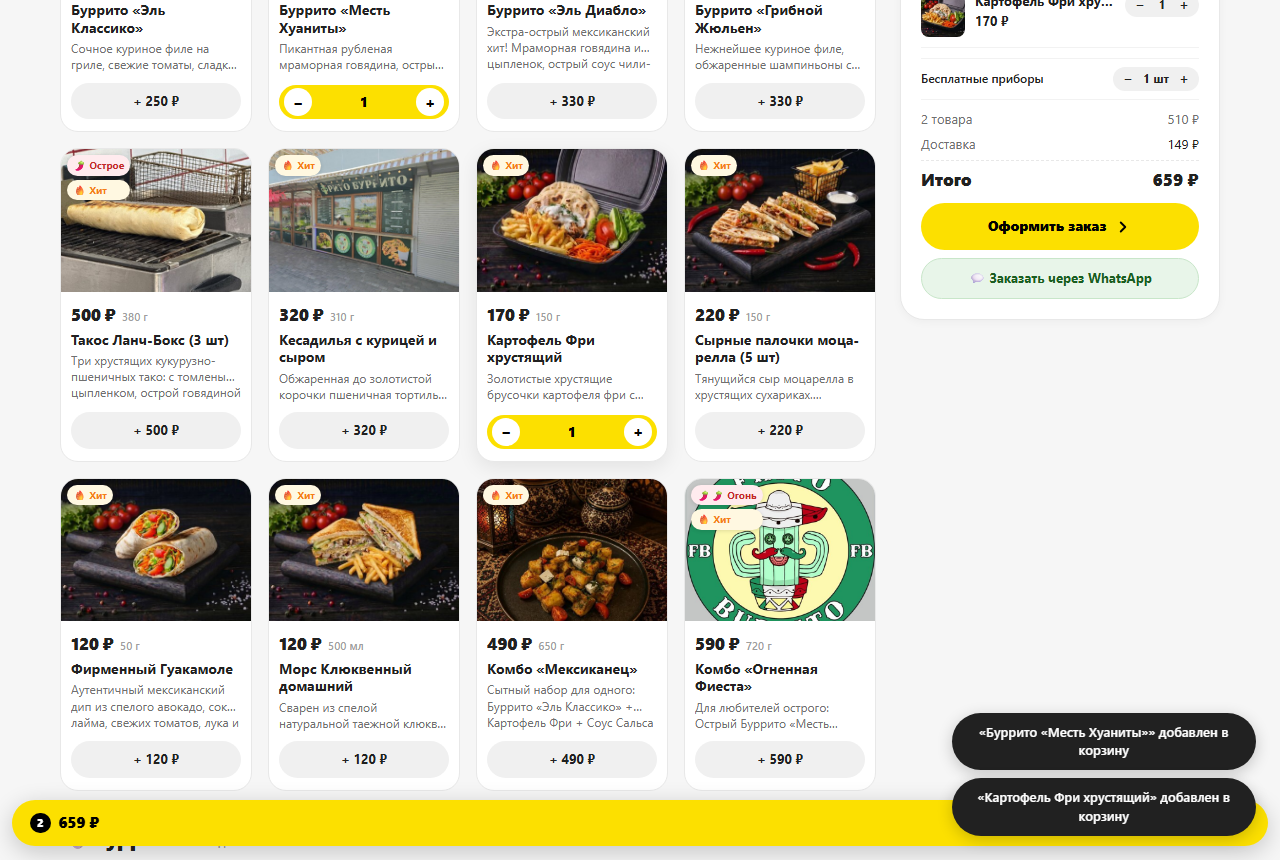
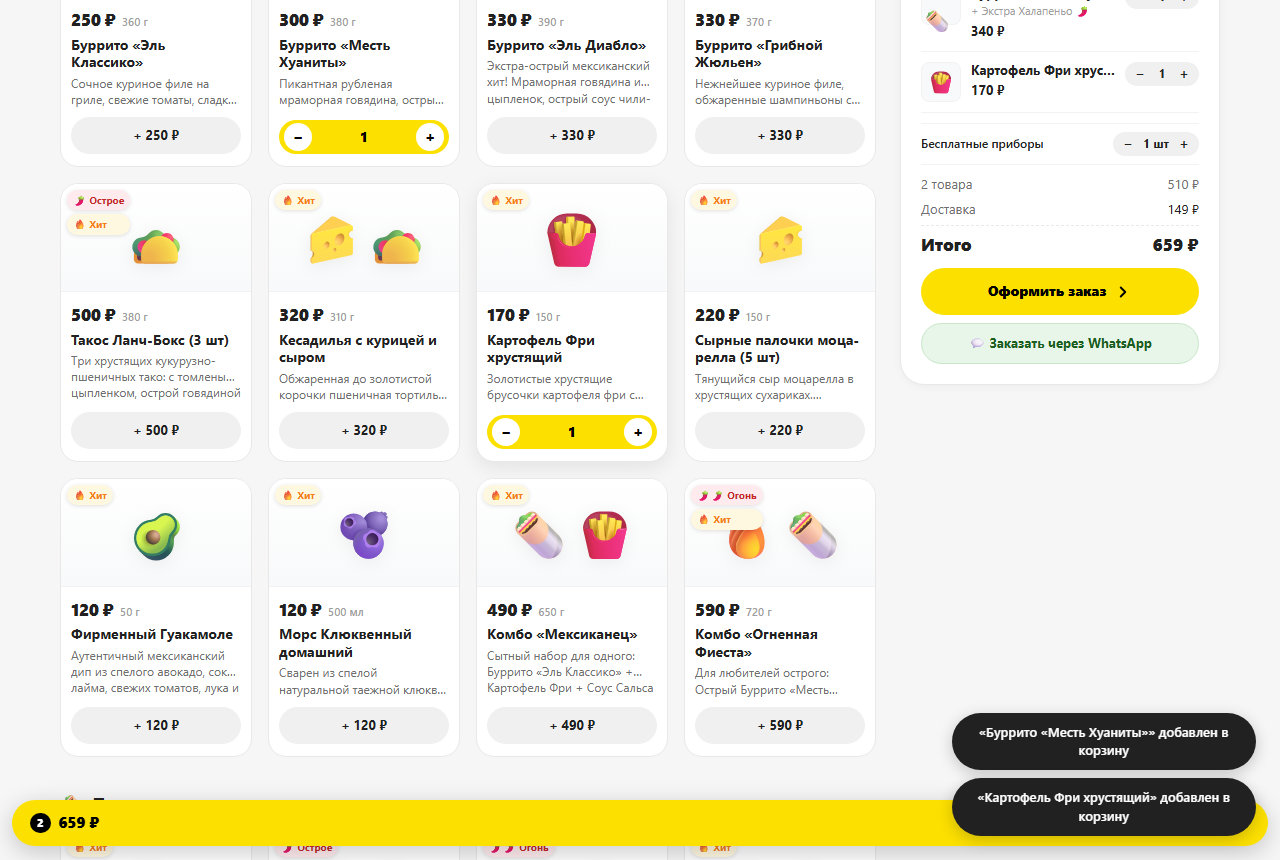
Keep hero cover photo from Yandex Maps, replace dish cards with clean appetizing food emojis

diff --git a/app.js b/app.js
@@ -60,7 +60,7 @@
     // Modals
     dishModalBackdrop: document.getElementById('dishModalBackdrop'),
     dishModalClose: document.getElementById('dishModalClose'),
-    dishModalImg: document.getElementById('dishModalImg'),
+    dishModalEmoji: document.getElementById('dishModalEmoji'),
     dishModalTitle: document.getElementById('dishModalTitle'),
     dishModalMeta: document.getElementById('dishModalMeta'),
     dishModalDesc: document.getElementById('dishModalDesc'),
@@ -272,12 +272,11 @@
       badgesHtml += '<span class="badge-tag popular">🔥 Хит</span>';
     }
 
-    // Image fallback
-    const imgUrl = dish.image;
+    const emojiIcon = dish.emoji || '🌯';
 
     card.innerHTML = `
-      <div class="dish-img-wrap">
-        <img src="${imgUrl}" alt="${escapeHtml(dish.name)}" loading="lazy" onerror="this.src='img/burrito-classic.jpg'" />
+      <div class="dish-emoji-wrap">
+        <div class="dish-emoji-icon">${emojiIcon}</div>
         <div class="dish-badges">${badgesHtml}</div>
       </div>
       <div class="dish-content">
@@ -354,7 +353,7 @@
     currentModalDish = dish;
     currentSelectedModifiers = [];
 
-    el.dishModalImg.src = dish.image;
+    el.dishModalEmoji.textContent = dish.emoji || '🌯';
     el.dishModalTitle.textContent = dish.name;
     el.dishModalMeta.innerHTML = `
       <span>${dish.weight}</span>
@@ -439,10 +438,10 @@
         id: cartItemId,
         dishId: dish.id,
         name: dish.name,
+        emoji: dish.emoji || '🌯',
         price: itemPrice,
         basePrice: dish.price,
         weight: dish.weight,
-        image: dish.image,
         modifiers: [...modifiers],
         quantity: 1
       });
@@ -547,7 +546,7 @@
         }
 
         itemRow.innerHTML = `
-          <img src="${item.image}" alt="" class="cart-item-img" onerror="this.src='img/burrito-classic.jpg'" />
+          <div class="cart-item-emoji">${item.emoji || '🌯'}</div>
           <div class="cart-item-details">
             <div class="cart-item-name">${escapeHtml(item.name)}</div>
             ${modsDesc ? `<div class="cart-item-modifiers">${escapeHtml(modsDesc)}</div>` : ''}
@@ -1076,11 +1075,11 @@
           id: "burrito-classic",
           categoryId: "burrito",
           name: "Буррито «Эль Классико»",
+          emoji: "🌯",
           price: 250,
           weight: "360 г",
           popular: true,
           spicy: 0,
-          image: "img/burrito-classic.jpg",
           description: "Сочное куриное филе на гриле, свежие томаты, кукуруза, сыр моцарелла, свежая зелень и фирменный сливочный соус в подрумяненной тортилье.",
           calories: "520 ккал",
           modifiers: [{ name: "Двойной сыр Чеддер", price: 50 }, { name: "Перчик Халапеньо", price: 40 }]
@@ -1089,11 +1088,11 @@
           id: "burrito-juanita",
           categoryId: "burrito",
           name: "Буррито «Месть Хуаниты»",
+          emoji: "🌶🌯",
           price: 300,
           weight: "380 г",
           popular: true,
           spicy: 1,
-          image: "img/burrito-juanita.jpg",
           description: "Пикантная рубленая мраморная говядина, острый перчик халапеньо, красная фасоль пинто, тянущийся чеддер и аутентичная сальса роха.",
           calories: "580 ккал",
           modifiers: [{ name: "Экстра Халапеньо 🌶", price: 40 }, { name: "Двойная говядина", price: 90 }]
@@ -1102,11 +1101,11 @@
           id: "burrito-diablo",
           categoryId: "burrito",
           name: "Буррито «Эль Диабло»",
+          emoji: "🔥🌯",
           price: 330,
           weight: "390 г",
           popular: true,
           spicy: 2,
-          image: "img/burrito-diablo.jpg",
           description: "Экстра-острый мексиканский хит! Мраморная говядина и цыпленок, острый соус чили-хабанеро, халапеньо, сладкая кукуруза и расплавленный чеддер.",
           calories: "610 ккал",
           modifiers: [{ name: "Острый соус Чили x2", price: 45 }]
@@ -1115,11 +1114,11 @@
           id: "burrito-mushroom",
           categoryId: "burrito",
           name: "Буррито «Грибной Жюльен»",
+          emoji: "🍄🌯",
           price: 330,
           weight: "370 г",
           popular: true,
           spicy: 0,
-          image: "img/burrito-mushroom.jpg",
           description: "Нежнейшее куриное филе, обжаренные шампиньоны с карамелизованным луком, двойная порция сыра и фирменный соус ранч.",
           calories: "540 ккал",
           modifiers: [{ name: "Дополнительный сыр", price: 50 }]
@@ -1128,11 +1127,11 @@
           id: "tacos-box",
           categoryId: "tacos-quesadilla",
           name: "Такос Ланч-Бокс (3 шт)",
+          emoji: "🌮",
           price: 500,
           weight: "380 г",
           popular: true,
           spicy: 1,
-          image: "img/tacos-box.jpg",
           description: "Три хрустящих кукурузно-пшеничных тако: с томленым цыпленком, острой говядиной и свежими овощами с долькой сочного лайма.",
           calories: "560 ккал",
           modifiers: [{ name: "Соус Гуакамоле", price: 70 }]
@@ -1141,11 +1140,11 @@
           id: "fries-crispy",
           categoryId: "snacks",
           name: "Картофель Фри хрустящий",
+          emoji: "🍟",
           price: 170,
           weight: "150 г",
           popular: true,
           spicy: 0,
-          image: "img/fries-crispy.jpg",
           description: "Золотистые хрустящие брусочки картофеля фри с легкой морской солью и паприкой.",
           calories: "320 ккал",
           modifiers: [{ name: "Соус Сырный", price: 60 }]
@@ -1154,11 +1153,11 @@
           id: "sauce-guacamole",
           categoryId: "sauces",
           name: "Фирменный Гуакамоле",
+          emoji: "🥑",
           price: 120,
           weight: "50 г",
           popular: true,
           spicy: 0,
-          image: "img/sauce-guacamole.jpg",
           description: "Аутентичный мексиканский дип из спелого авокадо, сока лайма, томатов и свежей кинзы.",
           calories: "95 ккал",
           modifiers: []
@@ -1167,11 +1166,11 @@
           id: "combo-mexican",
           categoryId: "combos",
           name: "Комбо «Мексиканец»",
+          emoji: "🌯🍟",
           price: 490,
           weight: "650 г",
           popular: true,
           spicy: 0,
-          image: "img/combo-mexican.jpg",
           description: "Сытный набор для одного: Буррито «Эль Классико» + Картофель Фри + Соус Сальса Роха + Напиток на выбор. Выгода 90 ₽!",
           calories: "980 ккал",
           modifiers: []

diff --git a/style.css b/style.css
@@ -631,24 +631,27 @@ a {
   box-shadow: var(--shadow-card-hover);
 }
 
-.dish-img-wrap {
+.dish-emoji-wrap {
   width: 100%;
-  aspect-ratio: 4 / 3;
+  height: 108px;
   position: relative;
-  background-color: #EFEFEF;
-  overflow: hidden;
+  background: linear-gradient(180deg, #FFFFFF 0%, #F8F9FA 100%);
+  display: flex;
+  align-items: center;
+  justify-content: center;
+  user-select: none;
+  border-bottom: 1px solid var(--color-border-subtle);
 }
 
-.dish-img-wrap img {
-  width: 100%;
-  height: 100%;
-  object-fit: cover;
-  object-position: center;
-  transition: transform 0.3s ease;
+.dish-emoji-icon {
+  font-size: 48px;
+  line-height: 1;
+  filter: drop-shadow(0 3px 8px rgba(0,0,0,0.06));
+  transition: transform var(--transition-fast);
 }
 
-.dish-card:hover .dish-img-wrap img {
-  transform: scale(1.03);
+.dish-card:hover .dish-emoji-icon {
+  transform: scale(1.12);
 }
 
 .dish-badges {
@@ -658,6 +661,7 @@ a {
   display: flex;
   flex-direction: column;
   gap: 4px;
+  z-index: 2;
 }
 
 .badge-tag {
@@ -902,12 +906,18 @@ a {
   border-bottom: 1px solid var(--color-border-subtle);
 }
 
-.cart-item-img {
-  width: 44px;
-  height: 44px;
+.cart-item-emoji {
+  width: 40px;
+  height: 40px;
   border-radius: var(--radius-sm);
-  object-fit: cover;
+  background-color: #F8F9FA;
+  display: flex;
+  align-items: center;
+  justify-content: center;
+  font-size: 22px;
   flex-shrink: 0;
+  border: 1px solid var(--color-border-subtle);
+  user-select: none;
 }
 
 .cart-item-details {
@@ -1168,11 +1178,16 @@ a {
   cursor: pointer;
 }
 
-.dish-modal-img {
+.dish-modal-emoji-header {
   width: 100%;
-  height: 240px;
-  object-fit: cover;
-  background-color: #F0F0F0;
+  height: 140px;
+  background: linear-gradient(180deg, #FFFDE7 0%, #FFF9C4 100%);
+  display: flex;
+  align-items: center;
+  justify-content: center;
+  font-size: 64px;
+  border-bottom: 1px solid var(--color-border-subtle);
+  user-select: none;
 }
 
 .dish-modal-content {

diff --git a/index.html b/index.html
@@ -242,7 +242,7 @@
   <div class="modal-backdrop" id="dishModalBackdrop">
     <div class="modal-window">
       <button class="modal-close-btn" id="dishModalClose">✕</button>
-      <img src="" alt="" class="dish-modal-img" id="dishModalImg">
+      <div class="dish-modal-emoji-header" id="dishModalEmoji">🌯</div>
       <div class="dish-modal-content">
         <h2 class="dish-modal-title" id="dishModalTitle"></h2>
         <div class="dish-modal-meta" id="dishModalMeta"></div>
